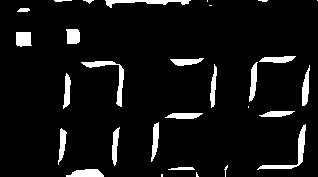
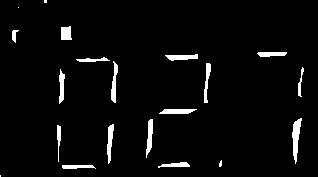
subida

diff --git a/Programa.py b/Programa.py
@@ -32,12 +32,12 @@ cal=1000
 def segmentos(img2):
             res=0
             A=img2[1:12,19:69]
-            B=img2[9:59,63:74]
+            B=img2[9:59,50:74]
             C=img2[72:111,50:78]
-            D=img2[115:131,5:48]
-            E=img2[73:118,2:16]
-            F=img2[30:65,1:39]
-            G=img2[58:83,20:53]
+            D=img2[95:131,10:52]
+            E=img2[73:109,2:16]
+            F=img2[10:55,1:20]
+            G=img2[50:75,15:59]
             a=np.linalg.norm(A,1)
             print (a,'A')
             b=np.linalg.norm(B,1)
@@ -82,7 +82,7 @@ def main():
        ic=0
        aux=''
        aux2=0
-       xcar=56
+       xcar=50
        ycar=51
        add=0
        token=True
@@ -148,7 +148,7 @@ def main():
             
             ##print ('A',top_left,'B',bottom_right)
             img=i[60:237,192:510]
-            auxi=img
+            
             imgaux=auxi[90:225,125:515]
             z=img
             
@@ -188,10 +188,10 @@ def main():
             img=cv2.bitwise_not(img)
             kernel = np.ones((3,3))
             img = cv2.erode(img,kernel,iterations = 4)
+         
           
             try:
-                    xcar=56
-                    ycar=51
+                    
                     img0=img[(xcar+13):(xcar+120),(ycar-41):(ycar-15)]
                     img1=img[xcar:(xcar+121),ycar:(ycar+76)]
                     img2=img[(xcar+2):(xcar+121),(ycar+93):(ycar+169)]
@@ -203,9 +203,12 @@ def main():
                         numero0=0
 
                     
-                    numero3,a,b,c,d,e,f,g=segmentos(img3)
-                    numero2,a,b,c,d,e,f,g=segmentos(img2)
+                    
                     numero,a,b,c,d,e,f,g=segmentos(img1)
+                    
+                    
+                    numero2,a,b,c,d,e,f,g=segmentos(img2)
+                    numero3,a,b,c,d,e,f,g=segmentos(img3)
                     numero=float(str(numero0)+str(numero)+puntoa+str(numero2)+puntob+str(numero3))
                     print 'Numero de salida:',numero
                     estado=int(np.linalg.norm(batery,2))
@@ -244,13 +247,14 @@ def main():
                     cv2.imshow('d',d)
                     cv2.imshow('e',e)
                     cv2.imshow('f',f)
-                    cv2.imshow('g',g)    
+                    cv2.imshow('g',g)
+                    cv2.imshow('todo',img3)    
             except:        
                     
                     print "Error de lectura"
                     
             if (cv2.waitKey(1) & 0xFF==ord('q')):
-                                    cv2.imwrite("rebbot1.jpg",img1)
+                                    cv2.imwrite("rebbot1.jpg",auxi)
                                     cv2.imwrite("rebbot2.jpg",img2)
                                     cv2.imwrite("rebbot3.jpg",img3)
                                     cap1.release()
